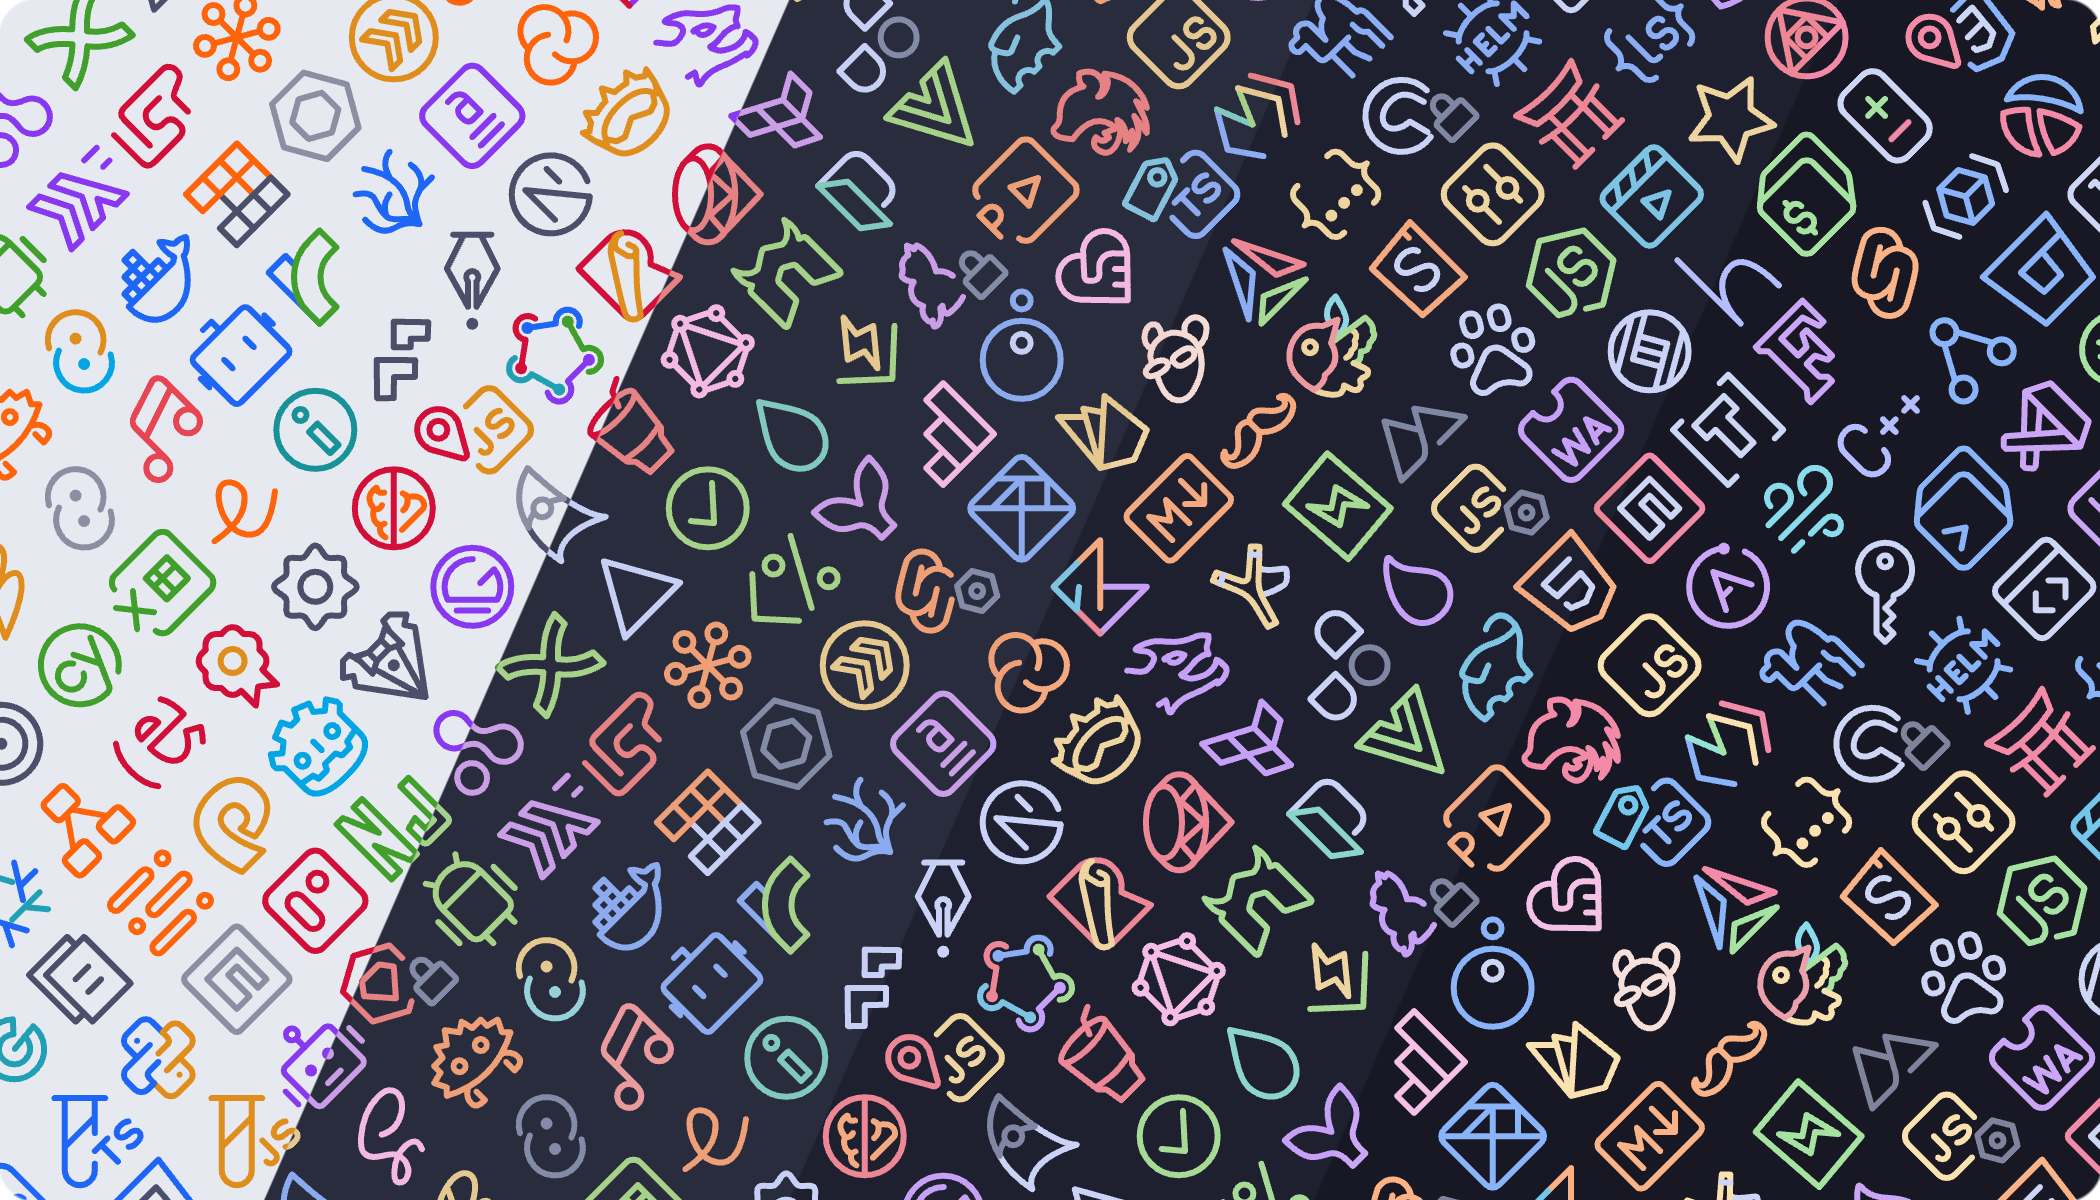
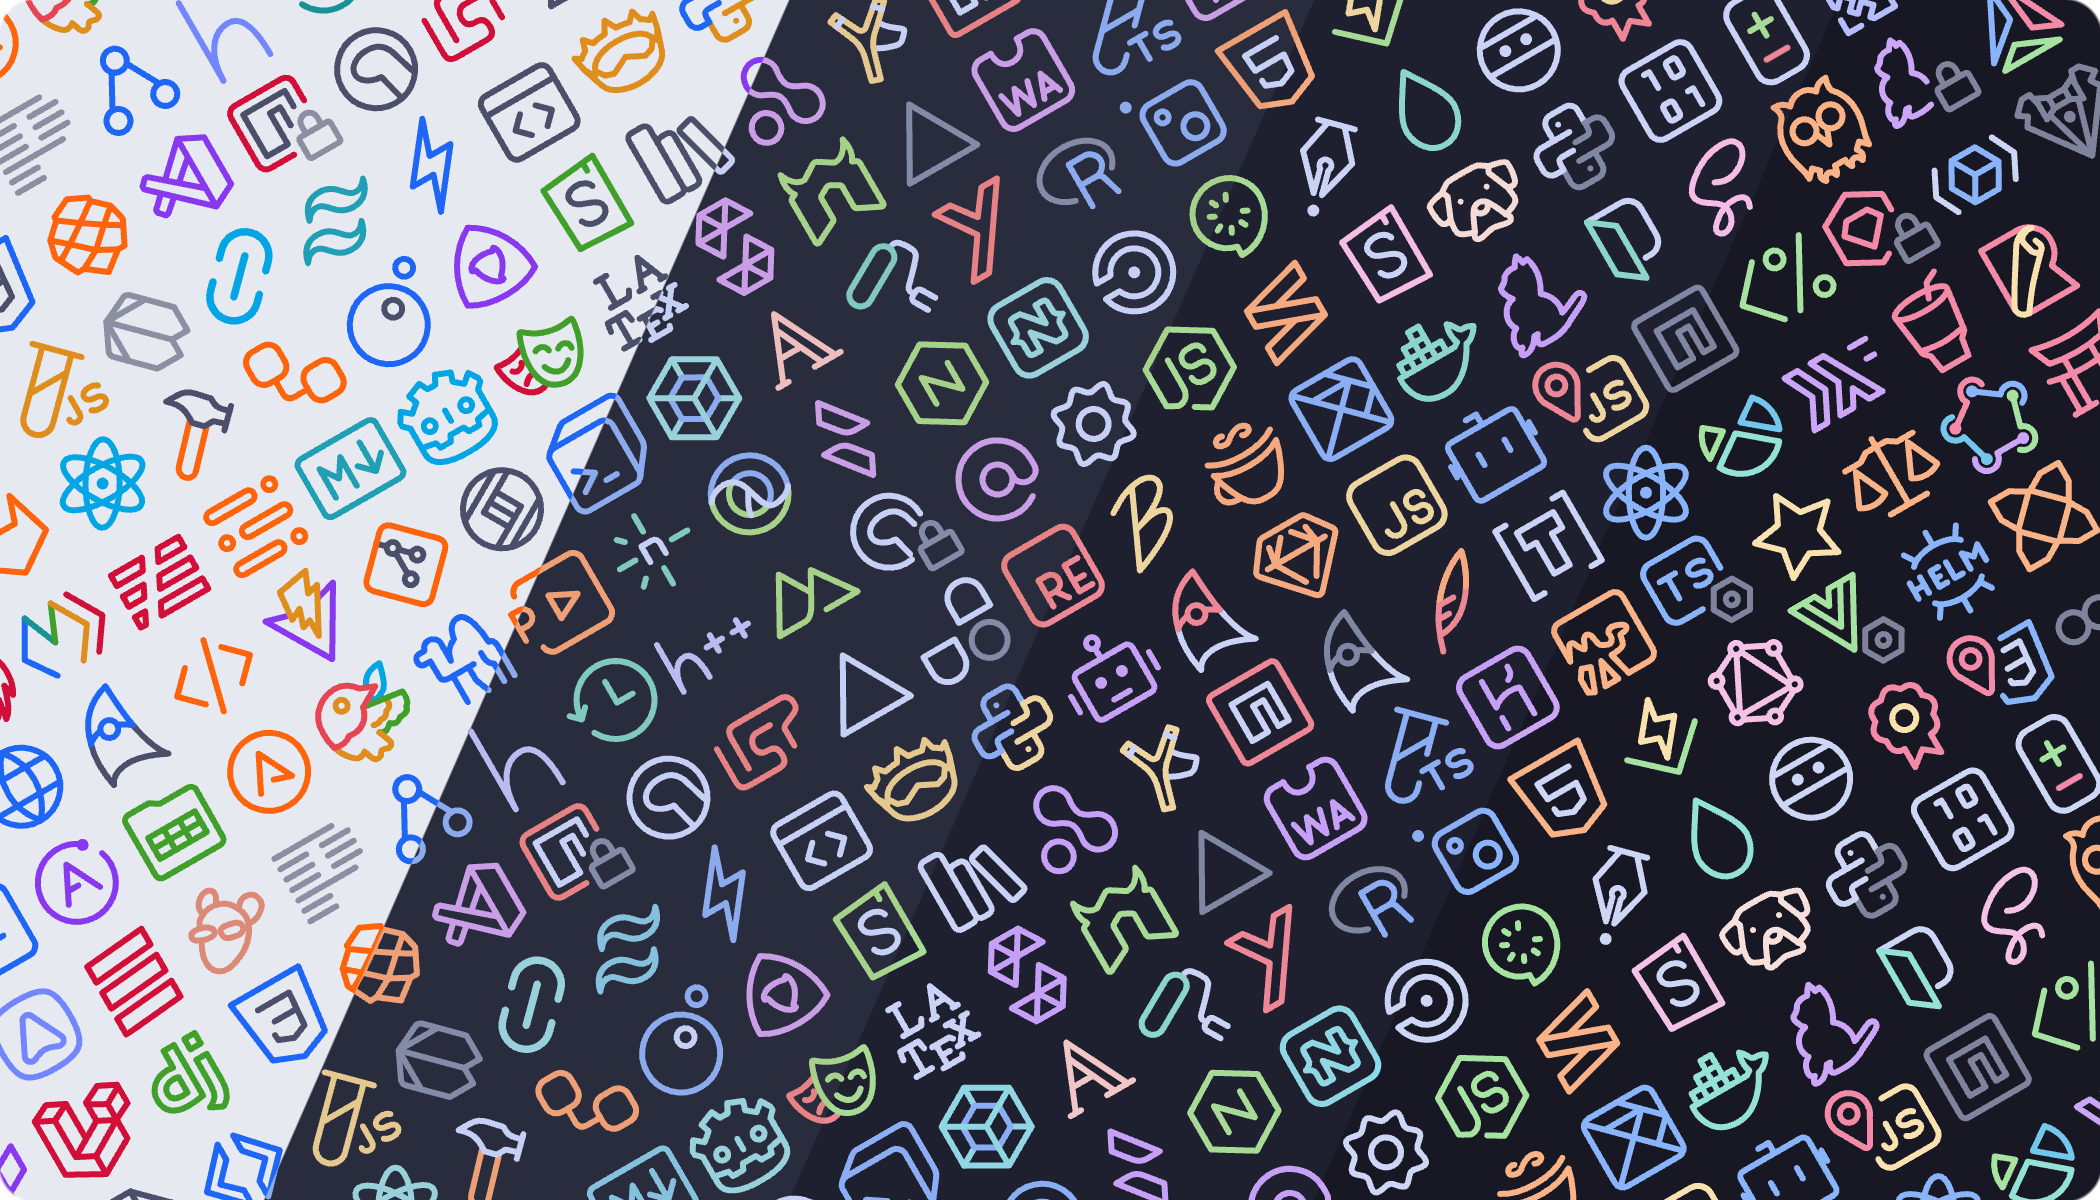
feat: reduce catwalk preview angle

diff --git a/scripts/catwalk.ts b/scripts/catwalk.ts
@@ -42,7 +42,7 @@ function generateHtml(flavor: FlavorName) {
           height: 32px;
         }
         .grid {
-          transform: rotate(-45deg) translate(0%, -50%);
+          transform: rotate(-30deg) translate(0%, -50%);
           width: 200%;
           display: inline-flex;
           align-items: center;
